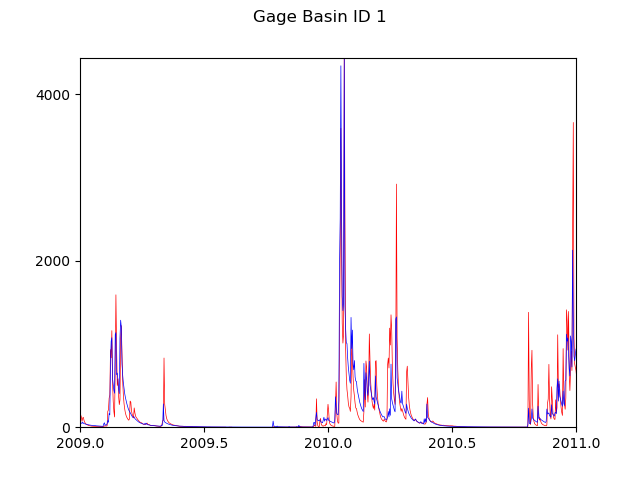
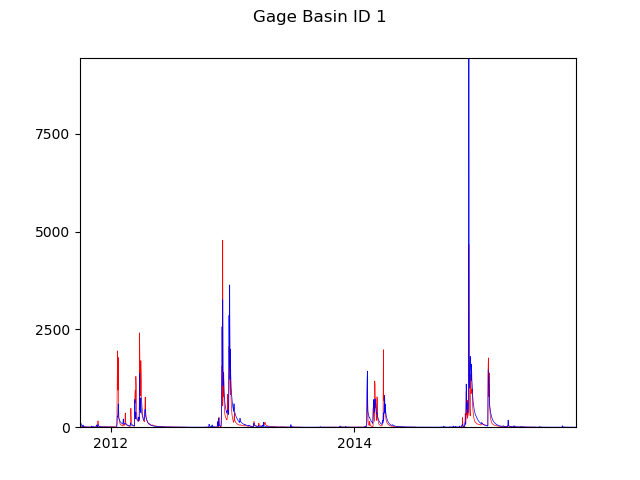
Made small modifications to graphing code

diff --git a/calibration/model_daily_stream_volumes_manual_changes_2.py b/calibration/model_daily_stream_volumes_manual_changes_2.py
@@ -498,7 +498,7 @@ fn_param = os.path.join(folder,"prms_rr.param")
 #prms.write_param_file(fn_param)
 
 ### run the model
-if True:
+if False:
     prms.write_param_file(fn_param)
     prms.run()
 
@@ -825,31 +825,48 @@ if True: # compare aggregated simulated flows with observations at selected gage
 
         # user-defined period
         if True:
-            try:
-                year_decimal1 = 2008     # declare start year (inclusive)
-                year_decimal2 = 2012     # declare end year (not inclusive)
-                y3 = []
-                y4 = []
-                for x in range(list(obs_yearday_dec).index(year_decimal1),list(obs_yearday_dec).index(year_decimal2)):
-                    y3.append(sim_streamflow[x])
-                    y4.append(obs_streamflow[x])
-                max_y3 = max(y3)
-                max_y4 = max(y4)
-                ymax2 = max(max_y3, max_y4)
 
-                plt.suptitle('Gage Basin ID %i' %gage)
-                plt.plot(obs_yearday_dec, obs_streamflow, color = 'red', linewidth = 0.5)
-                plt.xlim(year_decimal1, year_decimal2)
-                plt.ylim(ymin=0,ymax=ymax2)
-                plt.plot(obs_yearday_dec, sim_streamflow, color = 'blue', linewidth = 0.5)
-                #plt.yticks(sim_streamflow, " ")
-                #plt.yticks([])
-                plt.locator_params(nbins = 4)
-                plot_file = 'daily_%i_' % gage
-                plot_file += '%i.png' % int(year_decimal2)
-                plt.savefig(plot_file)
-                plt.close()
-            except: pass
+        # set the starting and ending year and month
+            year_plot1 = 2011
+            month_plot1 = 10
+
+            year_plot2 = 2015
+            month_plot2 = 10
+
+            yd1 = int(format(datetime.datetime(year_plot1, month_plot1, 1), '%j'))
+            year_decimal1 = year_plot1 + (float(yd1) - 1) / 366
+            yd2 = int(format(datetime.datetime(year_plot2, month_plot2, 28), '%j'))
+            year_decimal2 = year_plot2 + (float(yd2) - 1) / 366
+            span = year_decimal2 - year_decimal1
+
+            y1 = []
+            y2 = []
+            for x in range(list(obs_yearday_dec).index(year_decimal1), list(obs_yearday_dec).index(year_decimal2)):
+                y1.append(sim_streamflow[x])
+                y2.append(obs_streamflow[x])
+            max_y1 = max(y1)
+            max_y2 = max(y2)
+            ymax = max(max_y1, max_y2)
+
+            xt = [year_decimal1, 0.2 * span + year_decimal1, 0.4 * span + year_decimal1,
+                  0.6 * span + year_decimal1, 0.8 * span + year_decimal1, year_decimal2]
+            xtick_labels = []
+            [xtick_labels.append("%.2f" % item) for item in xt]
+            xtick_locs = [year_decimal1, 0.2 * span + year_decimal1, 0.4 * span + year_decimal1,
+                          0.6 * span + year_decimal1, 0.8 * span + year_decimal1, year_decimal2]
+
+            plt.suptitle('Gage Basin ID %i' %gage)
+            plt.plot(obs_yearday_dec, obs_streamflow, color = 'red', linewidth = 0.5)
+            plt.xlim(year_decimal1, year_decimal2)
+            plt.ylim(ymin=0,ymax=ymax)
+            plt.plot(obs_yearday_dec, sim_streamflow, color = 'blue', linewidth = 0.5)
+            #plt.yticks(sim_streamflow, " ")
+            #plt.yticks([])
+            plt.locator_params(nbins = 4)
+            plot_file = 'daily_%i_' % gage
+            plot_file += '%i.png' % year_plot1
+            plt.savefig(plot_file)
+            plt.close()
 
         # one-to-one scatter plot
         if False:
